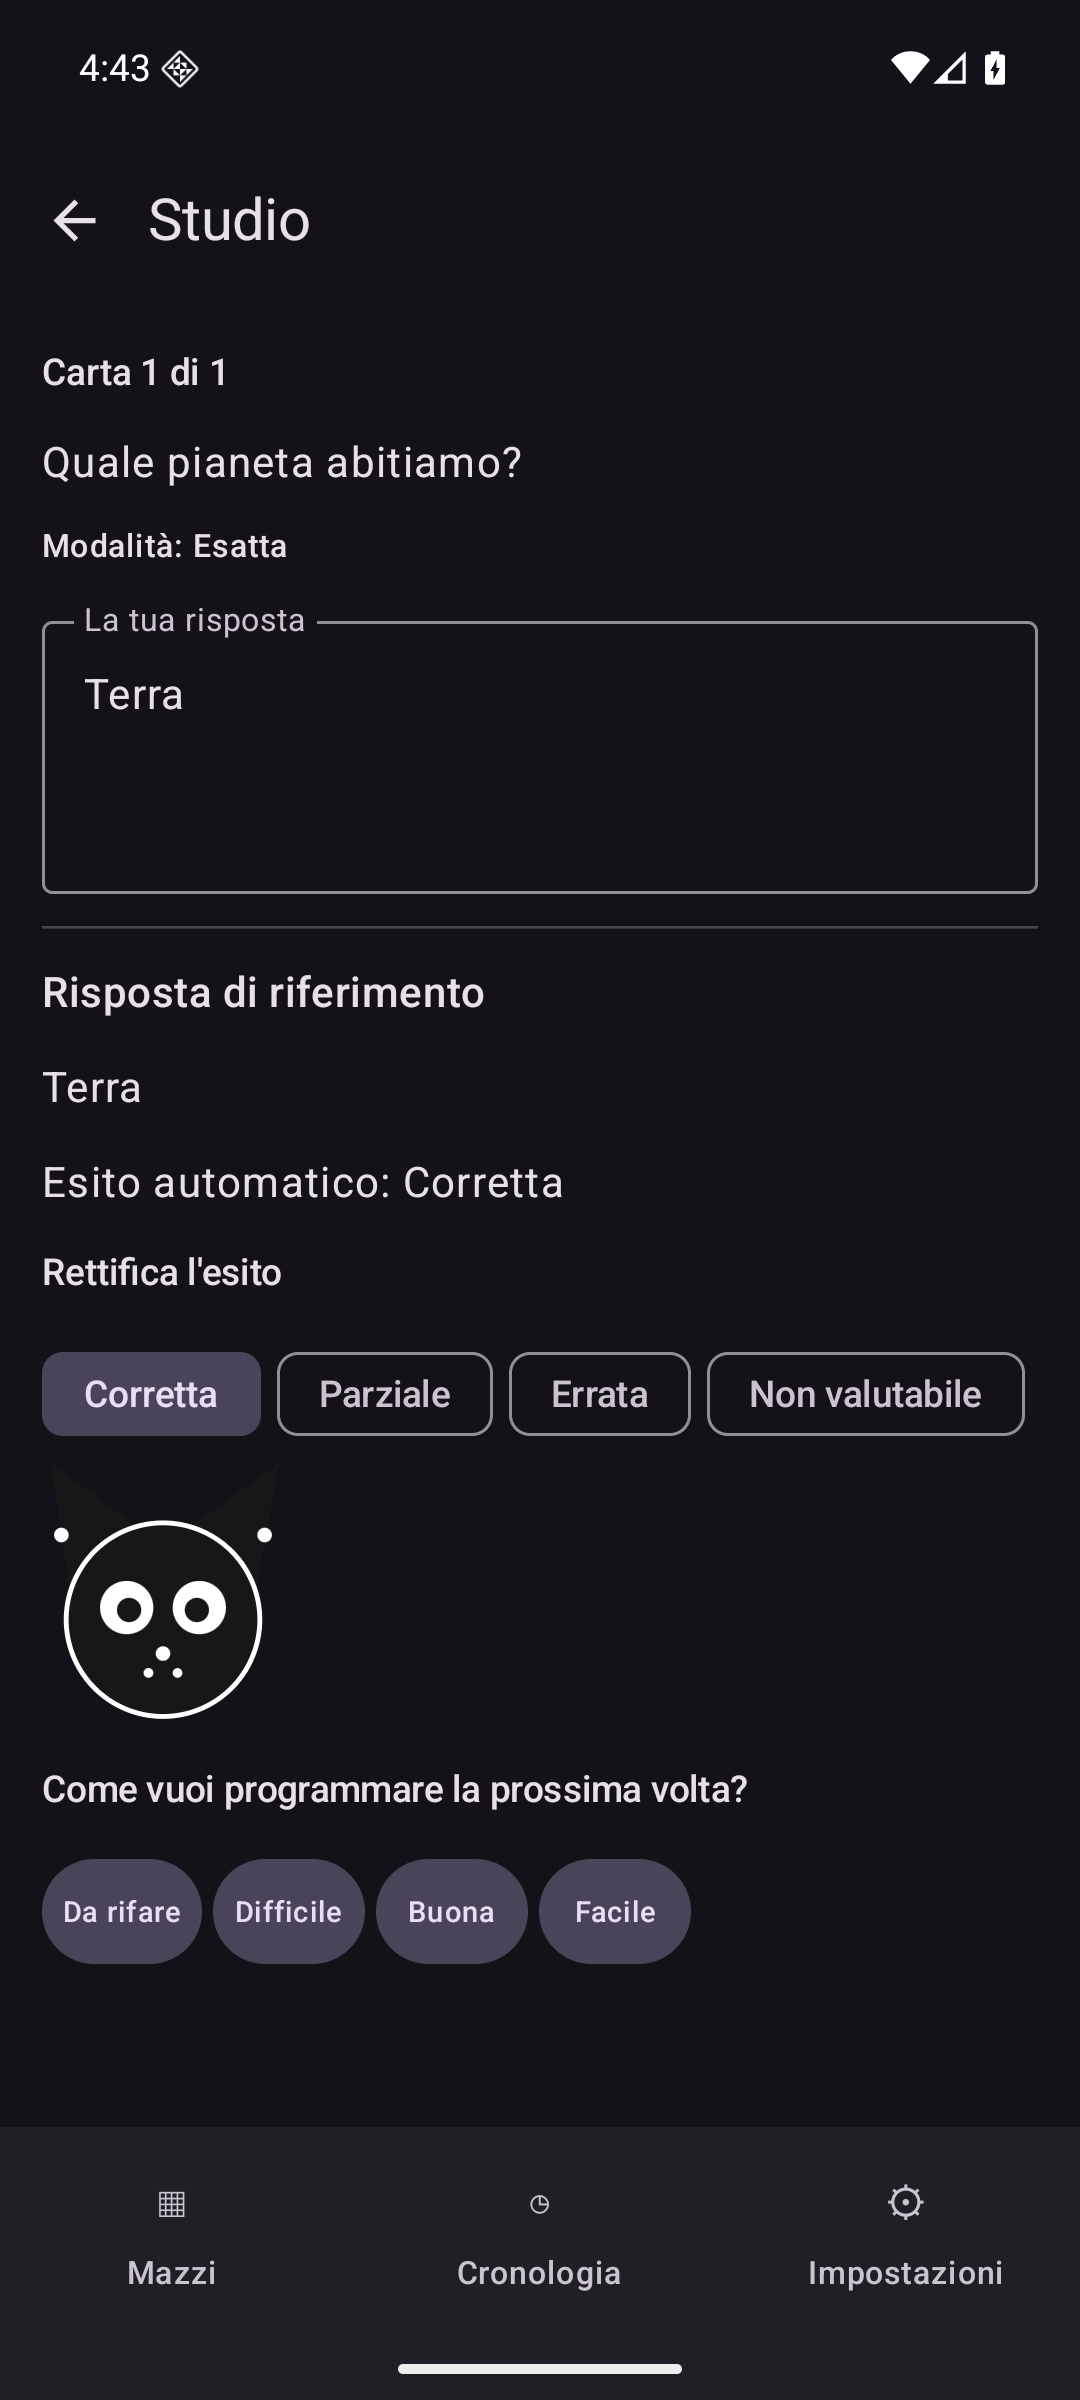
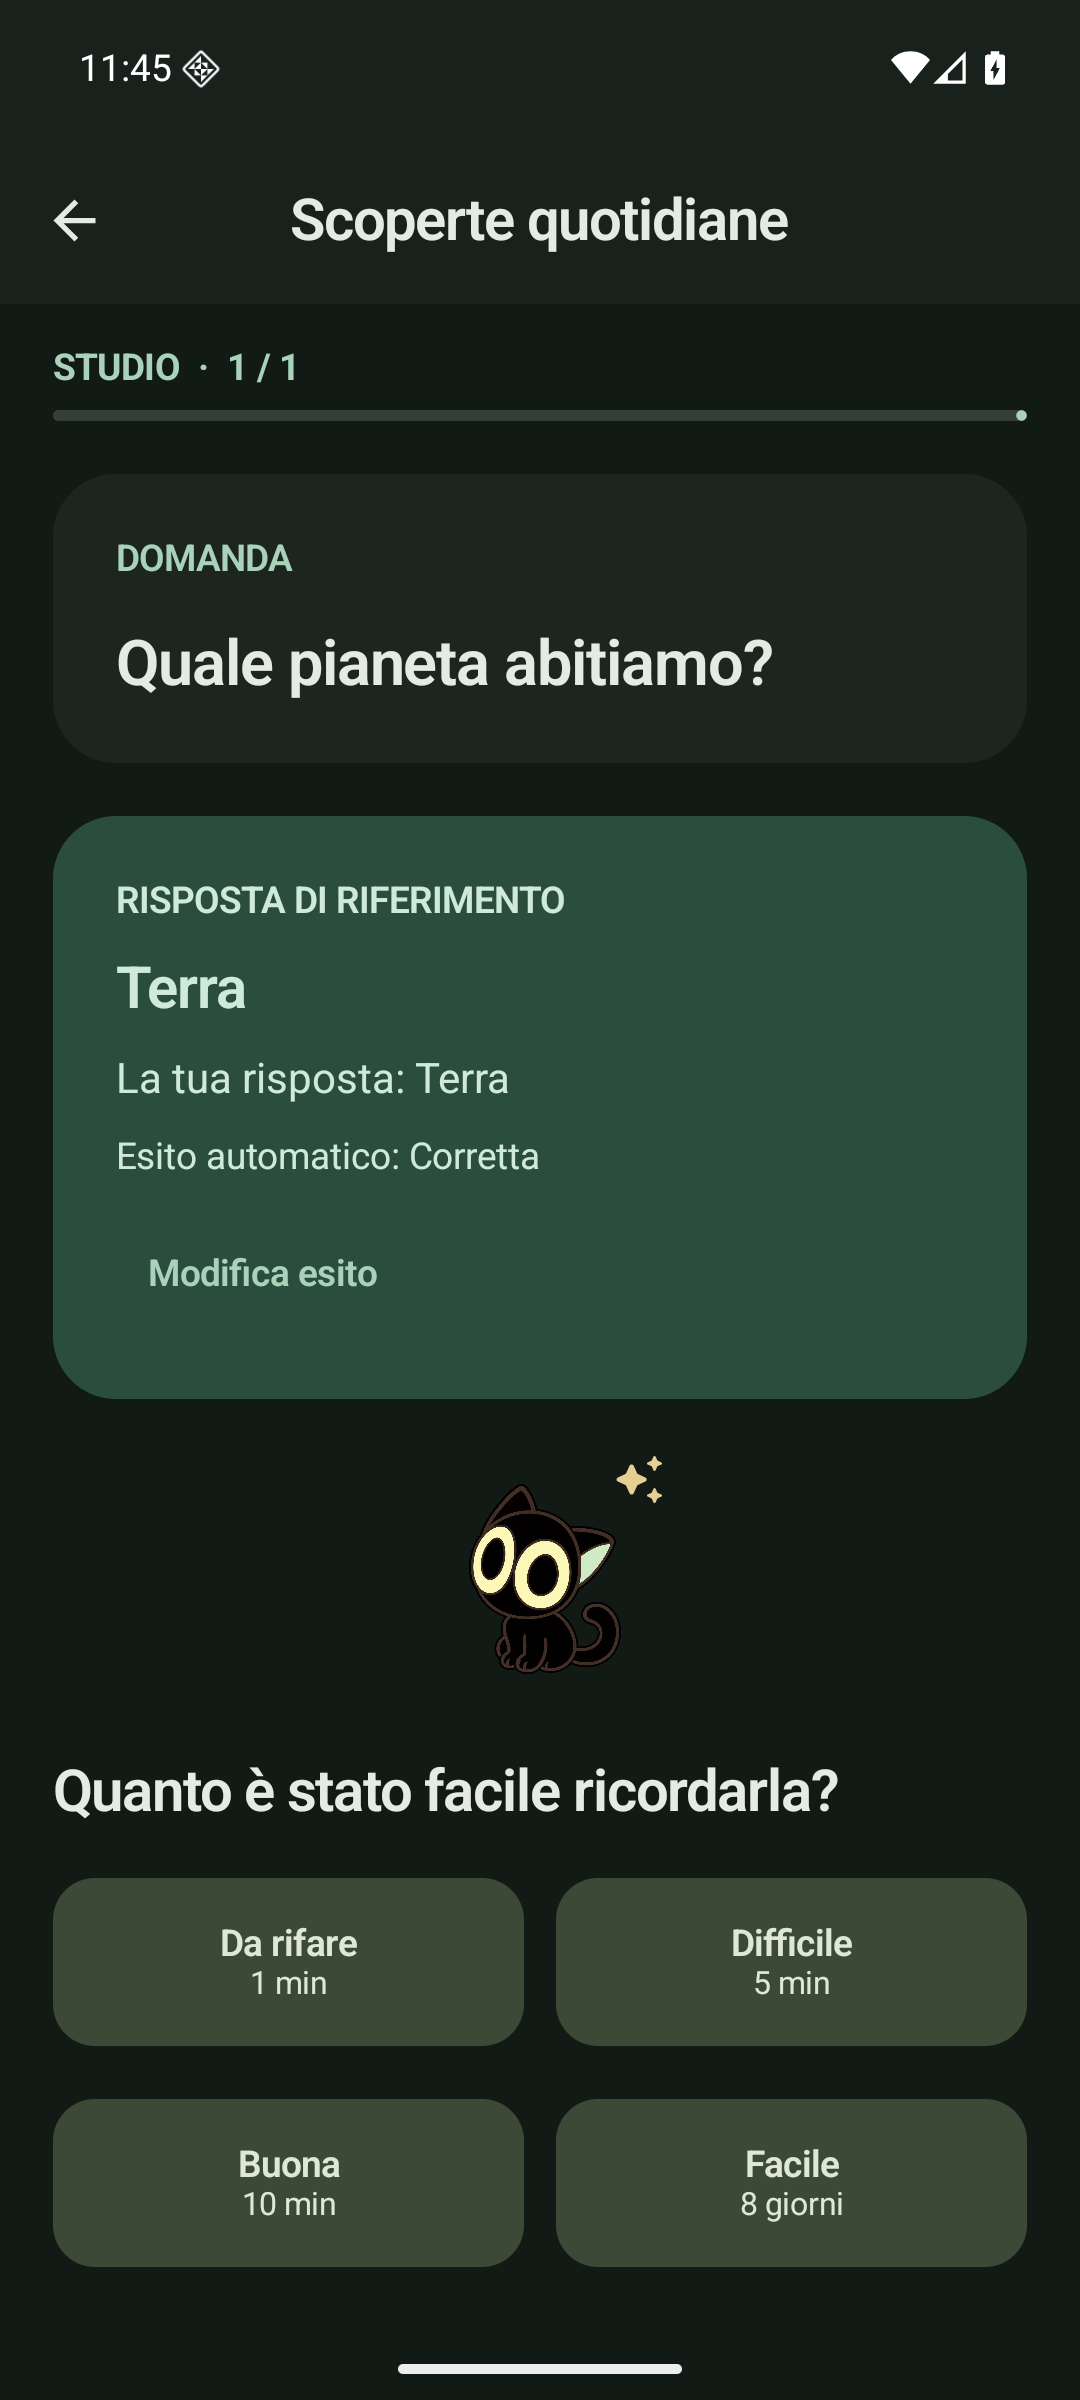
docs: record UX research and verified Android 0.2 preview

diff --git a/docs/UI-UX.md b/docs/UI-UX.md
@@ -1,0 +1,39 @@
+# UI e UX di Memoro 0.2
+
+Ricerca e implementazione del 25 settembre 2026. L'obiettivo è ridurre la confusione nell'uso quotidiano di una raccolta locale. Le app qui sotto sono riferimenti di interazione, non una classifica assoluta di qualità rispetto ad Anki.
+
+## Riferimenti consultati
+
+| Fonte ufficiale | Spunto adottato | Applicazione in Memoro |
+|---|---|---|
+| [Mochi](https://mochi.cards/) e [ripasso](https://mochi.cards/docs/reviewing/) | Layout sobrio, contenuti in primo piano, strumenti discreti | Tema salvia/avorio, note leggibili, ricerca e menu contestuali |
+| [RemNote: spaced repetition](https://help.remnote.com/en/articles/6022755-getting-started-with-spaced-repetition) | Conteggio delle carte dovute e azione principale; domanda isolata, progresso e intervalli | Home con coda globale; scheda domanda; quattro voti con prossimi intervalli calcolati dal nostro FSRS |
+| [Quizlet: flashcards](https://quizlet.com/features/flashcards) | Creazione basata su due campi e modalità di studio esplicite | Domanda e risposta come campi principali; scelta della modalità in un dialogo dedicato |
+| [Knowt: flashcards mode](https://help.knowt.com/en/articles/10298062-how-can-i-use-flashcards-mode) e [editor](https://help.knowt.com/en/articles/10716239-how-do-i-create-and-edit-flashcards) | Un'azione primaria chiara e impostazioni secondarie raccolte | Opzioni su richiesta, editor con salvataggio visibile, gestione carte tramite menu |
+
+Le pagine e le immagini ufficiali sono state consultate come riferimento. Nessuno screenshot, marchio o codice delle app concorrenti è incluso nell'app o redistribuito nel repository. Memoro conserva archivio locale, import/export Anki, FSRS-6 e AI limitata alla correzione facoltativa.
+
+## Decisioni implementate
+
+- **Mazzi:** il conteggio principale e «Inizia ripasso» coprono tutti i mazzi. Le azioni «Nuovo» e importazione Anki sono accessibili dalla home. Il dettaglio separa lo studio dalla gestione delle note.
+- **Navigazione:** Mazzi, Cronologia e Impostazioni hanno icone e testo. Durante editor e studio la barra inferiore scompare. Il titolo del mazzo dà contesto e l'uscita da un editor modificato richiede una scelta esplicita.
+- **Editor:** domanda e riferimento sono i primi campi. Tipologia, allegati e fonte restano disponibili; la fonte si espande solo quando serve. Il pulsante Salva rimane visibile. Le note importate conservano l'aggiornamento atomico dei campi.
+- **Modalità:** una preferenza per carta, applicabile anche a una selezione: Classica, Esatta oppure AI. Classica rimane disponibile nella sessione. Vecchi archivi con più modalità sono ancora leggibili. Le opzioni incompatibili spiegano perché non sono selezionabili.
+- **Studio:** una domanda per volta, avanzamento visibile, risposta scritta separata dal riferimento. Dopo invio compaiono esito, risposta corretta e fonte facoltativa; «Modifica esito» consente la rettifica umana. Solo il voto di memoria registra il ripasso. I quattro voti mostrano l'intervallo previsto.
+- **Cronologia:** riepilogo, ricerca e dettagli espandibili. La cancellazione dei dati personali richiede conferma e mantiene il ripasso già registrato.
+- **Impostazioni:** pet con anteprima, AI in una sezione espandibile e operazioni archivio descritte. La chiave già salvata non viene riversata automaticamente nel campo di testo.
+- **Aspetto:** colori e tipografia condivisi, tema chiaro/scuro di sistema, aree di tocco Material e controlli che vanno a capo nell'editor. Animazione del pet disattivata quando la scala animazioni Android è zero.
+
+## Gattino
+
+[Asset PNG trasparente](../app/src/main/res/drawable-nodpi/memoro_cat.png), generato con lo strumento ImageGen a partire dallo screenshot del pet fornito dall'utente. È un'illustrazione raster nuova, non un ritaglio dello screenshot. Testa nera molto grande, occhi ovali color crema, orecchio interno verde menta, corpo piccolo e coda ricurva. L'utente ha richiesto esplicitamente questa somiglianza.
+
+Il pet rimane facoltativo e disattivato inizialmente. Un piccolo salto e una scintilla indicano una risposta corretta; una lieve inclinazione e un cuore accompagnano un errore o una risposta parziale. Tre puntini indicano il giudizio non valutabile; una coda vuota mantiene il pet in attesa. Non cambia la posizione dei controlli. Il giudizio rettificato dall'utente determina la reazione.
+
+Prompt di generazione:
+
+> Use case: identity-preserve. Asset type: transparent mascot sprite for an Android flashcard app. Attached screenshot character reference, not background. Recreate same little black kitten, hugely oversized round black head, enormous pale butter-yellow oval eyes with black oval pupils, three-quarter facing left, asymmetric ears with pale mint right inner ear, tiny seated black body/four paws, thick hooked tail right. Deep black with warm brown outlines. Faithful proportions/silhouette, curious friendly, not owl/rabbit/realistic. Crisp hand-drawn 2D game pet, subtle pixel-art inspiration, flat colors, no glossy 3D/fur detail. Center fully visible 8% transparent padding. True alpha, no checkerboard/floor/shadow/UI/text/watermark.
+
+## Verifica
+
+I test coprono ripasso globale su due mazzi, isolamento della risposta tra carte, uscita protetta dall'editor, bozze, rettifica, ricreazione dell'Activity e impostazione del pet. Gli screenshot in [screenshots](screenshots/) provengono dall'app Android su emulatore con dati sintetici. Risultati e limiti sono registrati in [ACCEPTANCE.md](../ACCEPTANCE.md).

diff --git a/README.md b/README.md
@@ -2,10 +2,11 @@
 
 App Android in **Kotlin e Jetpack Compose**, con flashcard locali, ripasso FSRS-6 e controllo facoltativo delle risposte aperte tramite DeepSeek. Open source, licenza [BSD-2-Clause](LICENSE), senza account Memoro.
 
-<img src="docs/screenshots/study-light.png" width="260" alt="Studio in tema chiaro con risposta esatta e gattino"> <img src="docs/screenshots/study-dark.png" width="260" alt="La stessa schermata in tema scuro">
+<img src="docs/screenshots/home-light.png" width="260" alt="Home con ripasso e mazzi"> <img src="docs/screenshots/study-light.png" width="260" alt="Studio in tema chiaro con risposta esatta e gattino"> <img src="docs/screenshots/study-dark.png" width="260" alt="La stessa schermata in tema scuro">
 
 ## Funzioni
 
+- Home con ripasso di tutti i mazzi, ricerca nelle note ed editor con salvataggio sempre visibile.
 - Mazzi e note manuali: fronte/retro, inverse e cloze; immagini e audio locali.
 - Studio classico, risposta scritta esatta oppure correzione AI con chiave personale.
 - Risposta di riferimento, errori e omissioni; fonte facoltativa inserita manualmente. Puoi rettificare l'esito e scegliere separatamente il voto del ripasso.
@@ -35,15 +36,15 @@ I test strumentali usano dati sintetici e possono sostituire l'archivio dell'app
 ## Primo utilizzo
 
 1. In **Mazzi**, crea un mazzo e aggiungi una nota. Una nota inversa genera due carte. Per una cloze scrivi, per esempio, `Roma è la capitale {{c1::d'Italia}}`.
-2. Seleziona le carte nel mazzo e scegli **Classica**, **Esatta** o **AI**. Le carte importate partono in modalità classica. Esatta ignora maiuscole e spazi esterni, ma distingue accenti e punteggiatura; per le cloze confronta il termine nascosto.
-3. Tocca **Studia**. Dopo l'invio puoi correggere il giudizio, anche per un refuso. Solo **Da rifare / Difficile / Buona / Facile** registra il ripasso e aggiorna la scadenza. Un problema di rete non viene trattato come una risposta errata.
+2. Nel menu di una carta scegli **Modalità risposta**: **Classica**, **Esatta** o **AI**. Per più carte usa **Seleziona → Imposta modalità**. Le carte importate partono in modalità classica. Esatta ignora maiuscole e spazi esterni, ma distingue accenti e punteggiatura; per le cloze confronta il termine nascosto.
+3. Tocca **Studia ora** nel mazzo oppure **Inizia ripasso** nella home per tutti i mazzi. Dopo l'invio usa **Modifica esito** per correggere il giudizio, anche per un refuso. I quattro voti mostrano quando tornerà la carta. Solo **Da rifare / Difficile / Buona / Facile** registra il ripasso e aggiorna la scadenza. Un problema di rete non viene trattato come una risposta errata.
 4. In **Cronologia**, consulta ripassi e tentativi oppure cancella testo e feedback personali mantenendo il voto già registrato.
 
 In **Impostazioni** puoi attivare il gattino, importare/esportare `.apkg`, creare un backup o ripristinarlo. La conferma di ripristino sostituisce l'archivio dopo la validazione e conserva sul dispositivo una copia preventiva. Per spostare anche fonti, tentativi e feedback usa il backup Memoro: questi dati aggiuntivi non fanno parte del formato Anki.
 
 Per la correzione AI salva la tua chiave DeepSeek e il modello nelle impostazioni. La chiave è protetta da Android Keystore e non entra nel backup. Solo un invio esplicito in modalità AI trasmette domanda, riferimento, risposta e l'eventuale estratto fonte a DeepSeek. Non vengono caricati mazzi interi o file; gli URL della fonte sono metadati e non vengono aperti. Senza chiave o rete puoi usare l'autovalutazione. La prova con una chiave reale resta da effettuare; i test automatici usano un server simulato.
 
-## Compatibilità e limiti della v0.1
+## Compatibilità e limiti della v0.2
 
 Anki legacy e moderno sono verificati con fixture e importazione nel motore Anki 26.9.3: note base/inverse/cloze, GUID, campi, scadenze, stato, cronologia e byte dei media. L'esportazione moderna usa un database compatibile schema 11 in contenitore zstd. Template personalizzati e JavaScript vengono mostrati in forma semplificata e inerte, con avvisi; JavaScript e rete dalle carte sono disabilitati. Impostazioni avanzate dei modelli e preset personalizzati non sono riprodotti integralmente; l'esportazione lo segnala e i pacchetti originali sono conservati nel backup. Riferimenti a media dentro CSS/template personalizzati possono richiedere correzioni manuali dopo una collisione di nomi.
 
@@ -55,6 +56,6 @@ Generazione AI delle carte, elaborazione testo/PDF, OCR, `.colpkg`, AnkiWeb e si
 
 ## Documentazione e collaborazione
 
-[Specifica](SPEC.md) · [Architettura](ARCHITECTURE.md) · [Verifiche](ACCEPTANCE.md) · [Istruzioni per gli agenti](AGENTS.md) · [Dipendenze](THIRD_PARTY.md) · [Provenienza FSRS](THIRD_PARTY_FSRS.md).
+[UI/UX e riferimenti](docs/UI-UX.md) · [Specifica](SPEC.md) · [Architettura](ARCHITECTURE.md) · [Verifiche](ACCEPTANCE.md) · [Istruzioni per gli agenti](AGENTS.md) · [Dipendenze](THIRD_PARTY.md) · [Provenienza FSRS](THIRD_PARTY_FSRS.md).
 
 Il lavoro passa da branch e pull request, con build, lint, test unitari e test su emulatore in CI. Gli agenti GPT-6 Sol si dividono dati/scheduler, Anki e UI/AI e si scambiano direttamente feedback sui contratti condivisi.

diff --git a/ACCEPTANCE.md b/ACCEPTANCE.md
@@ -1,6 +1,6 @@
-# Accettazione v0.1
+# Accettazione v0.2
 
-Verifiche del 25 settembre 2026. Sorgenti applicativi verificati al commit `afc7b95`; gli aggiornamenti successivi del rapporto, screenshot e attribuzioni non cambiano il comportamento. Android 16/API 36, emulatore arm64 Pixel 7 dedicato; JDK 17. CI aggiunge Android API 35 x86_64.
+Verifiche del 25 settembre 2026. Redesign sviluppato sul branch `feat/ui-ux-refresh`; la verifica Anki esterna sotto riportata proviene dalla v0.1 (`afc7b95`) e il relativo motore non è stato modificato dal redesign. Android 16/API 36, emulatore arm64 Pixel 7 dedicato; JDK 17. CI aggiunge Android API 35 x86_64.
 
 ## Esito
 
@@ -13,7 +13,7 @@ Verifiche del 25 settembre 2026. Sorgenti applicativi verificati al commit `afc7
 - [x] R09: backup/ripristino, copia preventiva, ZIP troncato, digest errato e path traversal; esclusione della chiave; file e ripassi conservati dopo riapertura.
 - [x] R10: bozza e risposta valutata conservate alla ricreazione; cronologia e statistiche implementate, cancellazione dati personali del tentativo verificata.
 - [x] R11: opzione gattino, reazione all'esito e verifica visiva chiaro/scuro. Il codice rispetta la scala animazioni di Android e mantiene neutro il pet su errori tecnici.
-- [x] R12: compilazione APK installabile, **8 test unitari e 14 test strumentali**, lint senza errori; documentazione di uso, build e limiti.
+- [x] R12: compilazione APK installabile, **8 test unitari e 16 test strumentali**, lint senza errori; documentazione di uso, build e limiti.
 
 ## Prove riproducibili
 
@@ -31,10 +31,10 @@ Rapporti generati in `app/build/reports/tests/testDebugUnitTest/`, `app/build/re
 | `DeepSeekClientTest` | Contenuto richiesta, risposte JSON, conflitto fonte, malformed/vuoto/troncato, 401/429/500, timeout e nessun reinvio |
 | `RepositoryPersistenceTest` | Room, cloze Android, revisione concorrente/idempotente, backup, Keystore, riapertura, GUID e precedenza modifiche locali/remote |
 | `AnkiInteropTest` | Due fixture reali, media, cinque carte importate, cloze esatto, export misto e legacy nativo, reimportazione |
-| `StudyFlowTest` | Editor, rettifica esito/voto, rete indisponibile, bozza non rivelata, stato valutato ripristinato |
+| `StudyFlowTest` | Editor e uscita protetta, rettifica esito/voto, rete indisponibile, bozza non rivelata, stato valutato ripristinato, coda globale su due mazzi e risposte isolate fra carte |
 | `HostFlowTest` | Activity reale: impostazioni pet, creazione mazzo/nota, modalità, ricreazione Activity con bozza, esito corretto e voto |
 
-Screenshot verificati del vero host: [chiaro](docs/screenshots/study-light.png), [scuro](docs/screenshots/study-dark.png). La verifica visiva ha corretto contrasto della barra di stato e leggibilità della risposta inviata. Non è una certificazione su ogni dimensione dello schermo o dispositivo fisico. L'interruzione forzata nel mezzo del ripristino non è stata iniettata automaticamente: la protezione deriva dal puntatore alla generazione file aggiornato nella stessa transazione Room, verificato con ripristino e riapertura.
+Screenshot del vero host: [home](docs/screenshots/home-light.png), [editor](docs/screenshots/editor-light.png), [impostazioni](docs/screenshots/settings-light.png), [cronologia](docs/screenshots/history-light.png), studio [chiaro](docs/screenshots/study-light.png) e [scuro](docs/screenshots/study-dark.png). La verifica visiva ha corretto la sovrapposizione della tastiera al salvataggio, gli esiti duplicati e i conteggi al singolare. Il percorso reale completo è passato anche in tema scuro con [testo al 130%](docs/screenshots/study-large-font.png); verificati scorrimento e [Salva sopra la tastiera](docs/screenshots/editor-keyboard-light.png). Ricerca, decisioni e provenienza del nuovo pet sono in [UI-UX.md](docs/UI-UX.md). Non è una certificazione su ogni dimensione dello schermo o dispositivo fisico. L'interruzione forzata nel mezzo del ripristino non è stata iniettata automaticamente: la protezione deriva dal puntatore alla generazione file aggiornato nella stessa transazione Room, verificato con ripristino e riapertura.
 
 ## Oracle Anki esterno
 

diff --git a/SPEC.md b/SPEC.md
@@ -5,7 +5,7 @@ App Android personale open source, Kotlin/Jetpack Compose, BSD-2-Clause. Dati lo
 ## Requisiti
 
 - R01: Creare, modificare, eliminare mazzi e note manualmente; carte fronte/retro, inverse, cloze, immagini e audio. Distinguere nota e carte generate.
-- R02: Modalità per carta: CLASSIC (rivela/autovaluta), EXACT (risposta scritta confrontata localmente), AI (risposta scritta valutata da DeepSeek). Importazioni inizialmente CLASSIC; selezione multipla delle modalità su risposte testuali compatibili.
+- R02: Modalità per carta: CLASSIC (rivela/autovaluta), EXACT (risposta scritta confrontata localmente), AI (risposta scritta valutata da DeepSeek). Importazioni inizialmente CLASSIC. La UI imposta una modalità preferita per carta, anche su più carte selezionate; CLASSIC rimane disponibile nello studio. Archivi precedenti con più modalità restano leggibili. EXACT/AI richiedono risposte testuali compatibili.
 - R03: EXACT ignora maiuscole/minuscole e spazi esterni, distingue accenti e punteggiatura. Utente può rettificare ogni esito in corretta/parziale/errata, senza cambiare la carta.
 - R04: AI confronta domanda, risposta di riferimento, risposta utente, eventuali punti essenziali ed estratto fonte. Mostra riferimento, esito, errori, omissioni e spiegazione. Esiti: corretta, parziale, errata, non valutabile. Conflitti fonte/risposta sono non valutabili; niente invenzione di fonti. Link/pagina sono metadati, non fonti lette.
 - R05: Solo conferma umana Da rifare/Difficile/Buona/Facile aggiorna FSRS e registra ripasso, atomicamente e una volta per tentativo. AI e rettifica non programmano scadenze. Conservare testo, esito automatico e finale separati.
@@ -14,7 +14,7 @@ App Android personale open source, Kotlin/Jetpack Compose, BSD-2-Clause. Dati lo
 - R08: Import/export .apkg legacy e moderno: contenuti supportati, media, cronologia, scadenze e stato; identificativi stabili e reimportazione senza duplicati. Rapporto incompatibilità per template/JS non supportati; preservare pacchetto originale. Nessuna perdita silenziosa. Rendering isolato senza JS/rete. .colpkg e sincronizzazione AnkiWeb fuori v1.
 - R09: Backup completo versionato di dati, tentativi, fonti, media e pacchetti originali; esclusa chiave API. Validare prima di ripristino, conferma esplicita, backup preventivo. Nessun backup cloud Android automatico.
 - R10: Schermate mazzi, elenco/editor, studio, cronologia/statistiche, impostazioni. Statistiche scadenze/ripassi/esiti. Modalità scritte rivelano risposta solo dopo invio; classica su richiesta.
-- R11: Gattino vettoriale nero, testa e occhi grandi, opzionale disattivato inizialmente. Attesa/festa/incoraggiamento/pensieroso; segue esito rettificato; neutro su errore tecnico. Silenzioso, non sposta controlli, pose statiche con movimento ridotto.
+- R11: Gattino nero con testa e occhi grandi, illustrazione trasparente ispirata al pet di riferimento fornito dall’utente, opzionale disattivato inizialmente. Attesa/festa/incoraggiamento/pensieroso; segue esito rettificato; neutro su errore tecnico. Silenzioso, non sposta controlli, pose statiche con movimento ridotto.
 - R12: Sorgenti, documenti, APK, build riproducibile e verifiche Android. Prova DeepSeek reale subordinata a chiave utente, indicata pendente se assente.
 
 ## Rimandato
